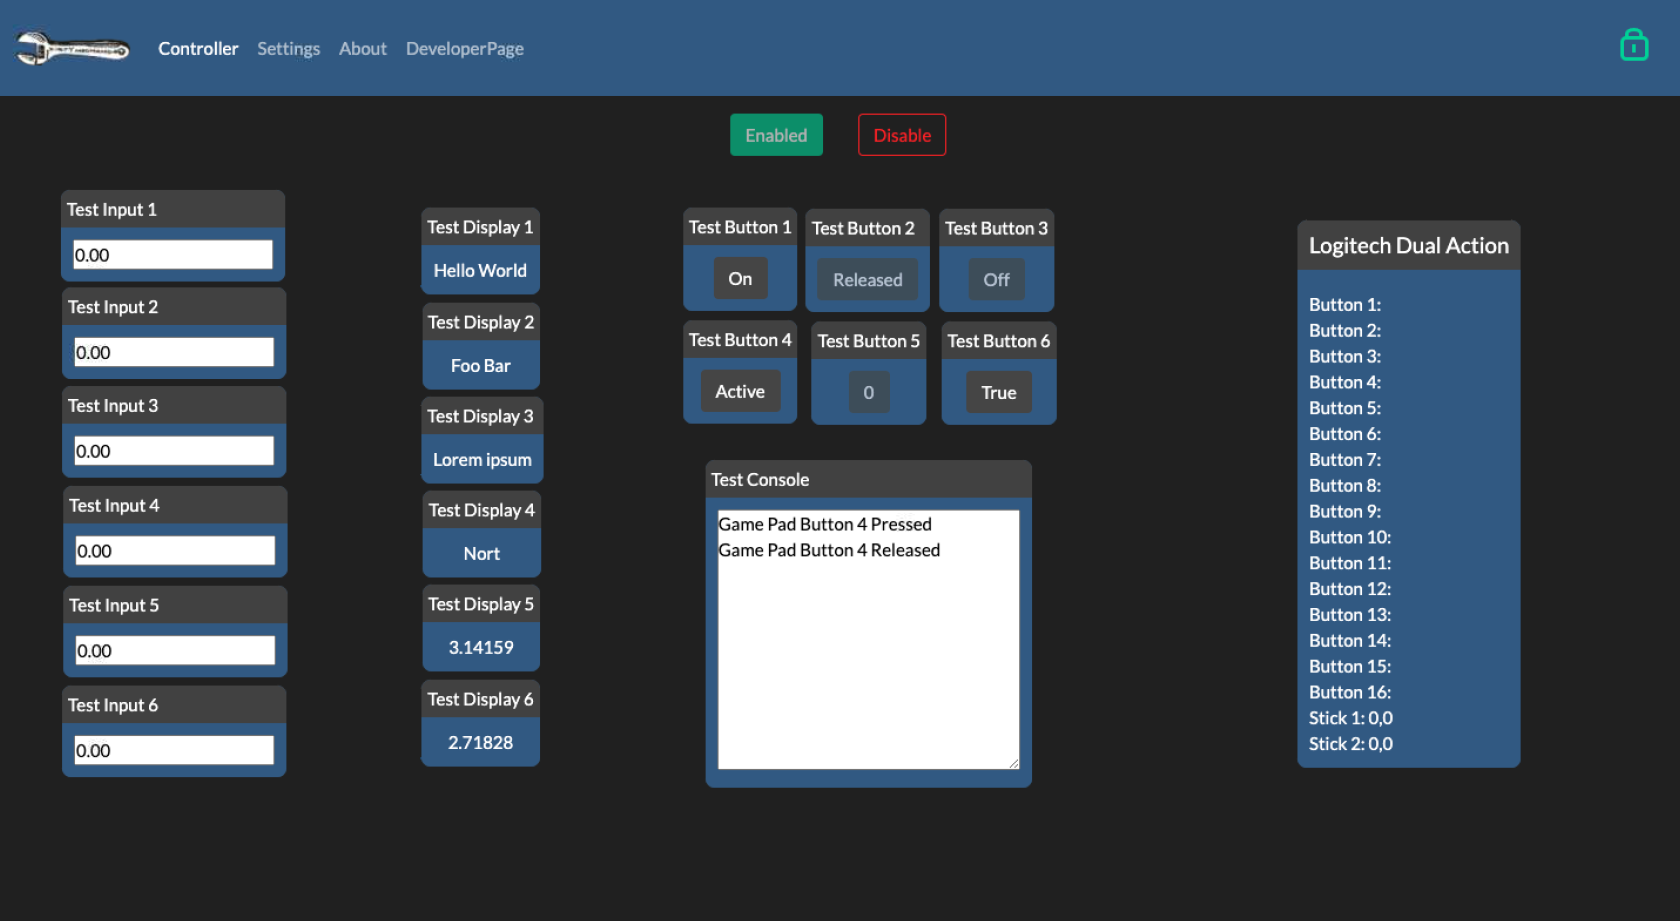
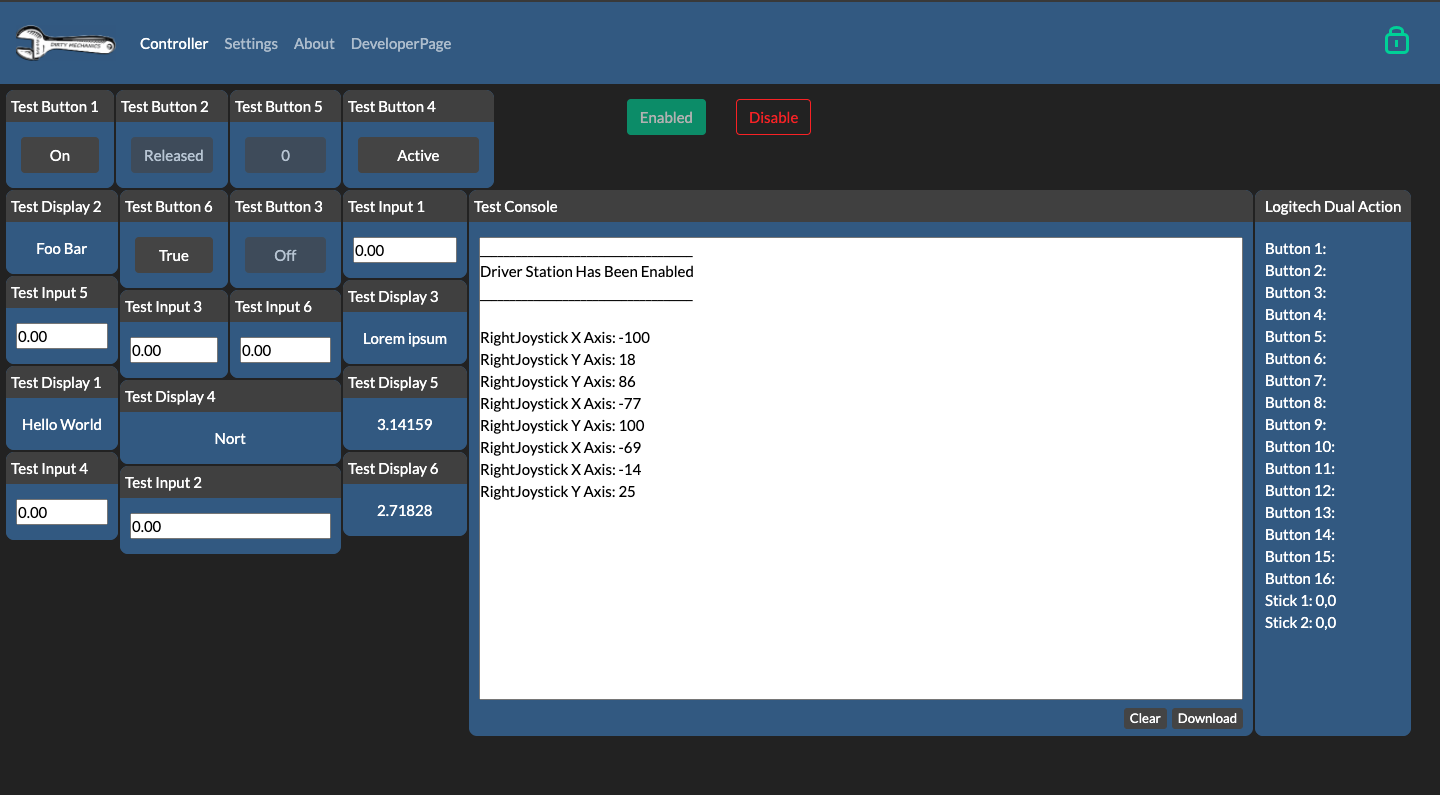
Updated documentation for v2.2.1

diff --git a/README.md b/README.md
@@ -1,14 +1,14 @@
 <img style="display: block; margin: 1em auto;" src="/images/logo.png" width="300"></img>
 
 # Microbot32_WebControl
-A modular UI that can be hosted localy on an ESP32 based robot to interface with the robot through a browser. Developed by Team 3932: Dirty Mechanics members.
+An arduino library to create a modular UI that can be hosted localy on an ESP32 based robot to interface with a robot through a browser. Developed by Team 3932: Dirty Mechanics members.
 
 ## Features
-* Log console widget
+* Log console widgets
 * Numerical input widgets
 * Gamepad input map widget
 * Customizable button widgets
-* Display widgets for both numbers and text
+* Display widgets that work with numbers and text
 
 ![UI_Example image](/images/UI_Example.PNG)
 
@@ -19,9 +19,9 @@ A modular UI that can be hosted localy on an ESP32 based robot to interface with
 4. Using the `wifiSecrets_EXAMPLE.h` file as refference Change the `ssid` and `password` to the name of your WiFi network so that the program can connect to your WiFi upon startup. Alternatively you can remove the line `#include "wifiSecrets.h"` and directly set your ssid and password in your ino sketch.
 5. Upload the `data` folder to the ESP32 filesystem. To do this, choose the `Tools > ESP32 Sketch Data Upload` option in the Arduino menu bar. Wait for this process to complete. You should see a message similar to `Leaving...` or `Hard reseting...` when the process is done.
 6. Upload the current file to the ESP32 through the Arduino IDE by using the `Upload` button (commonly styled as a right arrow) in the Arduino menu. Make sure the board is set to `ESP32 Dev Module` in your board settings. Again, you should see a message similar to `Leaving...` or `Hard reseting...` when the process is done.
-7. As soon as the process has finished uploading, open up your serial monitor. The device will print the local IP it has connected to. Open this IP in a web browser, and the GUI should now be accessible.
+7. If you have mDNS bonjour installed on your computer (you might already) you can open `robot.local` in your browser. If this does not work when the program is finished uploading, open up your serial monitor. The robots assigned local IP will be printed. Open this IP in a web browser, and the GUI should be accessible.
 
-## Usage
+# Library Usage
 ### Setup
 ![dashboardConfigurationExample image](/images/dashboardConfigurationExample.PNG)
 
@@ -67,6 +67,23 @@ void DriverStationDashboard::sendToConsole(int consNum, double dataToDisplay)
 //Send data to a dash board console with an int
 void DriverStationDashboard::sendToConsole(int consNum, int dataToDisplay)
 ```
+
+# UI Usage
+### Using the gamepad
+![Gamepad Usage Example Video](/images/gamepadUsageExample.gif)
+* When the dashboard is enabled the gamepad widget is hidden untill an input on a valid controler is detected.
+
+### Locking the widget configuration
+![Configuration Saving Example Video](/images/configurationLockExample.gif)
+* When you use the dashboard for the first time the widgets will be placed in rows. You can resize the length of buttons displays and inputs, the height of the gamepad map, and the size of consoles using the resizers in the four corners of all widgets. 
+* You can move all widgets draging them by their top banner.
+* Using the lock in the top right will ensure every time you use the dashboard your widgets will stay the same.
+* You can unlock the configuration make modifications and lock them again at any time.
+
+### Clearing and downloading consoles
+![Console Buttons Example Video](/images/consoleButtonExample.gif)
+* You can use the download button to save the console logs as a `.txt` file
+* The clear button will clear the console field and its save file.
 
 ## Contributing
 Contributions are welcome. Please open an issue or make a pull request as needed.
